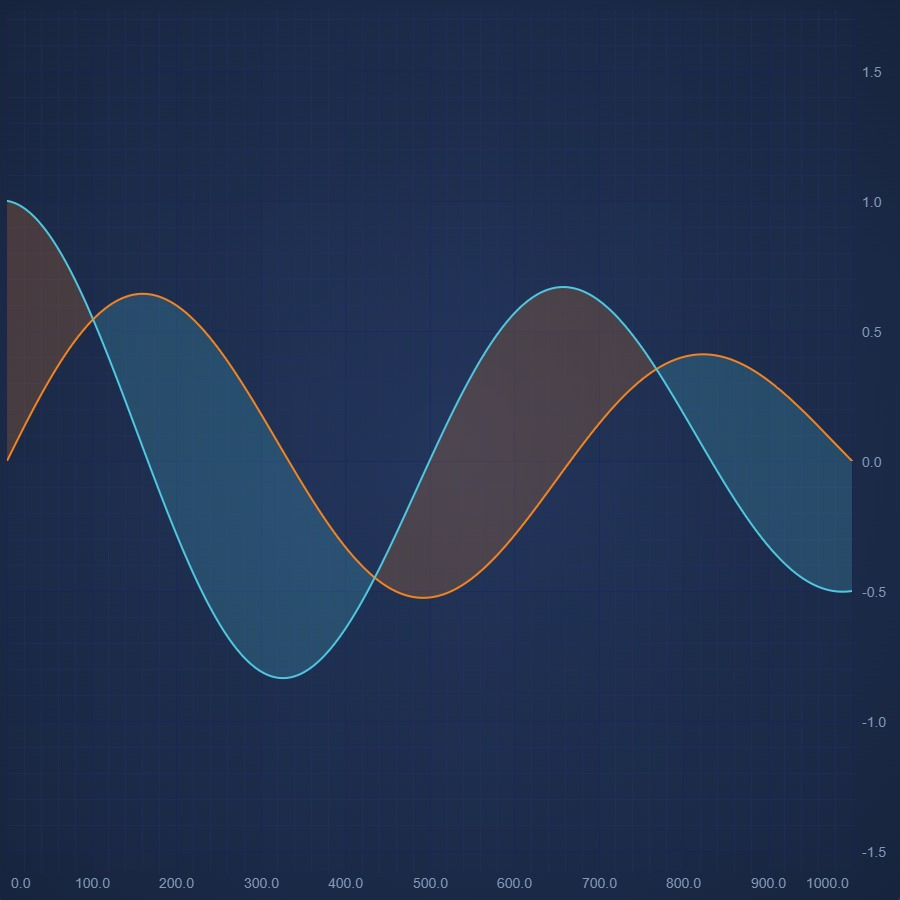
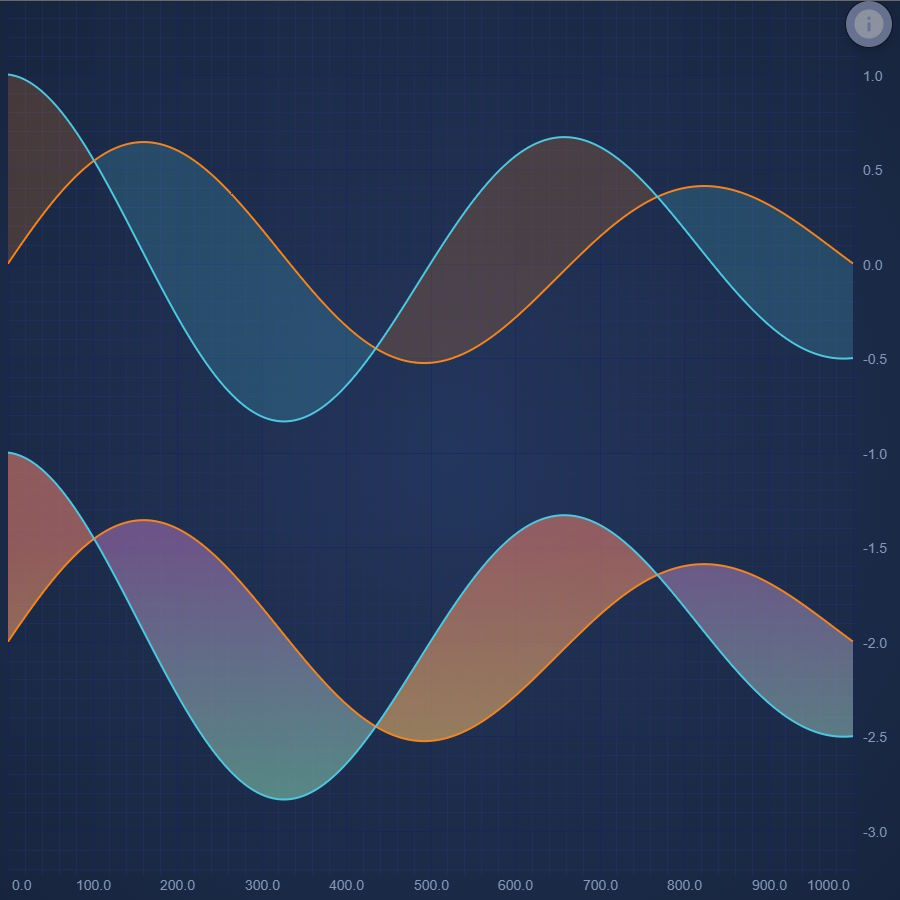
feat(Examples): Added YGradient docsnippet.  Gradient band.  Updated some screenshots

diff --git a/Examples/src/components/Examples/Charts2D/BasicChartTypes/BandSeriesChart/drawExample.ts b/Examples/src/components/Examples/Charts2D/BasicChartTypes/BandSeriesChart/drawExample.ts
@@ -8,6 +8,8 @@ import {
     SciChartSurface,
     NumberRange,
     SweepAnimation,
+    GradientParams,
+    Point,
 } from "scichart";
 
 import { appTheme } from "../../../theme";
@@ -20,7 +22,7 @@ export const drawExample = async (rootElement: string | HTMLDivElement) => {
 
     // Add an XAxis, YAxis
     sciChartSurface.xAxes.add(new NumericAxis(wasmContext));
-    sciChartSurface.yAxes.add(new NumericAxis(wasmContext, { growBy: new NumberRange(0.4, 0.4) }));
+    sciChartSurface.yAxes.add(new NumericAxis(wasmContext, { growBy: new NumberRange(0.1, 0.1) }));
 
     // Create some data for the example. We need X, Y and Y1 values
     const xValues = [];
@@ -45,6 +47,28 @@ export const drawExample = async (rootElement: string | HTMLDivElement) => {
             fillY1: appTheme.VividSkyBlue + "33",
             stroke: appTheme.VividOrange,
             strokeY1: appTheme.VividSkyBlue,
+            animation: new SweepAnimation({ duration: 800 }),
+        })
+    );
+
+    sciChartSurface.renderableSeries.add(
+        new FastBandRenderableSeries(wasmContext, {
+            dataSeries: new XyyDataSeries(wasmContext, {
+                xValues,
+                yValues: yValues.map((y) => y - 2),
+                y1Values: y1Values.map((y) => y - 2),
+            }),
+            strokeThickness: 3,
+            stroke: appTheme.VividOrange,
+            strokeY1: appTheme.VividSkyBlue,
+            fillLinearGradient: new GradientParams(new Point(0, 0.6), new Point(0, 0.9), [
+                { color: appTheme.MutedRed + "99", offset: 0 },
+                { color: appTheme.MutedOrange + "99", offset: 1 },
+            ]),
+            fillLinearGradientY1: new GradientParams(new Point(0, 0.6), new Point(0, 0.9), [
+                { color: appTheme.MutedPurple + "99", offset: 0 },
+                { color: appTheme.MutedTeal + "99", offset: 1 },
+            ]),
             animation: new SweepAnimation({ duration: 800 }),
         })
     );

diff --git a/Documentation/src/PaletteProvider/YGradient/demo.ts b/Documentation/src/PaletteProvider/YGradient/demo.ts
@@ -1,0 +1,56 @@
+import {
+  IStrokePaletteProvider,
+  IPointMetadata,
+  IRenderableSeries,
+  EStrokePaletteMode,
+  parseColorToUIntArgb,
+  SciChartSurface,
+  FastLineRenderableSeries,
+  NumericAxis,
+  XyDataSeries,
+  makeIncArray,
+  PaletteFactory,
+  GradientParams,
+  NumberRange,
+  Point,
+} from "scichart";
+
+async function lineChartWithyGradient(divElementId: string) {
+  const { sciChartSurface, wasmContext } = await SciChartSurface.create(
+    divElementId
+  );
+  // Create XAxis
+  sciChartSurface.xAxes.add(new NumericAxis(wasmContext));
+  // Create YAxis
+  sciChartSurface.yAxes.add(new NumericAxis(wasmContext));
+
+  const xValues = makeIncArray(250);
+  const yValues = makeIncArray(
+    250,
+    1,
+    (y) => Math.sin(y * 0.05) + Math.sin(y * 0.01)
+  );
+
+  // #region ExampleA
+  const yGradientPalette = PaletteFactory.createYGradient(
+    wasmContext,
+    new GradientParams(new Point(0, 0), new Point(0, 1), [
+      { offset: 0, color: "blue" },
+      { offset: 0.5, color: "green" },
+      { offset: 1, color: "red" },
+    ]),
+    new NumberRange(-0.5, 2) // the range of y-values to apply the gradient to
+  );
+  // #endregion
+
+  sciChartSurface.renderableSeries.add(
+    new FastLineRenderableSeries(wasmContext, {
+      strokeThickness: 5,
+      dataSeries: new XyDataSeries(wasmContext, { xValues, yValues }),
+      paletteProvider: yGradientPalette,
+    })
+  );
+  sciChartSurface.zoomExtents();
+}
+
+lineChartWithyGradient("scichart-root");

diff --git a/Documentation/src/PaletteProvider/YGradient/demo.js b/Documentation/src/PaletteProvider/YGradient/demo.js
@@ -1,0 +1,44 @@
+"use strict";
+
+const scichart_1 = SciChart;
+async function lineChartWithyGradient(divElementId) {
+  const { sciChartSurface, wasmContext } =
+    await scichart_1.SciChartSurface.create(divElementId);
+  // Create XAxis
+  sciChartSurface.xAxes.add(new scichart_1.NumericAxis(wasmContext));
+  // Create YAxis
+  sciChartSurface.yAxes.add(new scichart_1.NumericAxis(wasmContext));
+  const xValues = (0, scichart_1.makeIncArray)(250);
+  const yValues = (0, scichart_1.makeIncArray)(
+    250,
+    1,
+    (y) => Math.sin(y * 0.05) + Math.sin(y * 0.01)
+  );
+  // #region ExampleA
+  const yGradientPalette = scichart_1.PaletteFactory.createYGradient(
+    wasmContext,
+    new scichart_1.GradientParams(
+      new scichart_1.Point(0, 0),
+      new scichart_1.Point(0, 1),
+      [
+        { offset: 0, color: "blue" },
+        { offset: 0.5, color: "green" },
+        { offset: 1, color: "red" },
+      ]
+    ),
+    new scichart_1.NumberRange(-0.5, 2) // the range of y-values to apply the gradient to
+  );
+  // #endregion
+  sciChartSurface.renderableSeries.add(
+    new scichart_1.FastLineRenderableSeries(wasmContext, {
+      strokeThickness: 5,
+      dataSeries: new scichart_1.XyDataSeries(wasmContext, {
+        xValues,
+        yValues,
+      }),
+      paletteProvider: yGradientPalette,
+    })
+  );
+  sciChartSurface.zoomExtents();
+}
+lineChartWithyGradient("scichart-root");

diff --git a/Examples/src/components/Examples/Charts2D/BasicChartTypes/LineChart/drawExample.ts b/Examples/src/components/Examples/Charts2D/BasicChartTypes/LineChart/drawExample.ts
@@ -25,6 +25,7 @@ import {
     SciChartSurface,
     SeriesSelectionModifier,
     Thickness,
+    VerticalSliceModifier,
     XyDataSeries,
 } from "scichart";
 import { ExampleDataProvider } from "../../../ExampleData/ExampleDataProvider";
@@ -167,12 +168,14 @@ export const getChartsInitializationAPI = () => {
                 rolloverLineStroke: appTheme.VividOrange,
                 rolloverLineStrokeThickness: 2,
                 rolloverLineStrokeDashArray: [2, 2],
+            }),
+            new VerticalSliceModifier({
+                rolloverLineStroke: appTheme.VividOrange,
+                rolloverLineStrokeThickness: 2,
+                xCoordinateMode: ECoordinateMode.DataValue,
+                x1: 15,
             })
         );
-        // FOR DEMO PURPOSE ONLY - fake a mouse event so the tooltip shows without rollover.
-        sciChartSurface.mouseManager.modifierMouseMove({
-            mousePoint: new Point((sciChartSurface.renderSurface.viewportSize.width * 2) / 3, 10),
-        } as ModifierMouseArgs);
 
         return { sciChartSurface, wasmContext };
     };

diff --git a/Documentation/src/PaletteProvider/YGradient/demo.css b/Documentation/src/PaletteProvider/YGradient/demo.css
@@ -1,0 +1,7 @@
+body {
+  margin: 0;
+}
+#scichart-root {
+  width: 100%;
+  height: 100vh;
+}

diff --git a/Documentation/src/PaletteProvider/YGradient/demo.html b/Documentation/src/PaletteProvider/YGradient/demo.html
@@ -1,0 +1,1 @@
+<div id="scichart-root"></div>
